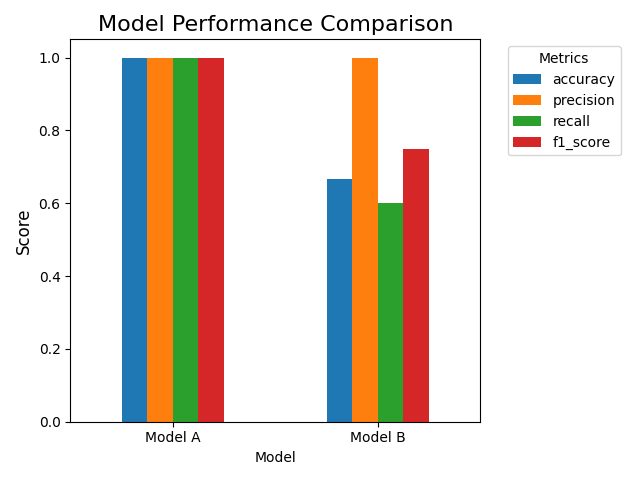
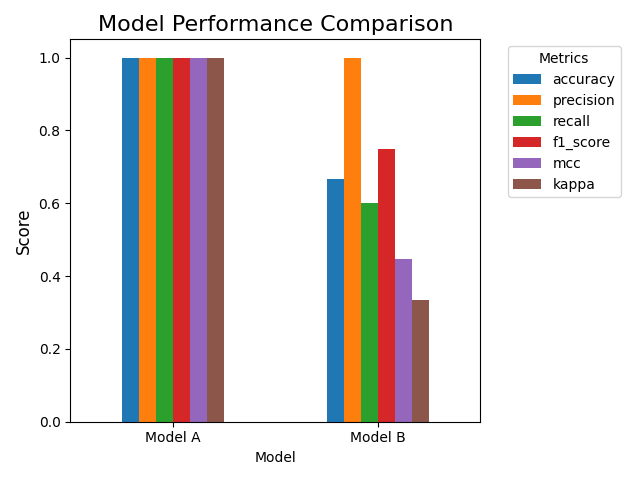
feat: add MCC and Cohen's Kappa metrics

Changed region(s): [[0.2188, 0.0938, 0.375, 0.9062], [0.5312, 0.0938, 0.6875, 0.9062], [0.7812, 0.3125, 0.9375, 0.4062]]

diff --git a/src/evaluation/main.py b/src/evaluation/main.py
@@ -2,6 +2,7 @@ import numpy as np
 import pandas as pd
 import matplotlib.pyplot as plt
 import seaborn as sns
+from sklearn.metrics import matthews_corrcoef, cohen_kappa_score
 
 class ModelComparator:
     def __init__(self, questions, ground_truth, model_a_responses, model_b_responses):
@@ -44,7 +45,9 @@ class ModelComparator:
             'recall': recall,
             'f1_score': f1,
             'total_correct': sum(p == gt for p, gt in zip(predictions, self.ground_truth)),
-            'total_questions': len(self.ground_truth)
+            'total_questions': len(self.ground_truth),
+            'mcc': matthews_corrcoef(self.ground_truth, predictions),  # Matthews Correlation Coefficient
+            'kappa': cohen_kappa_score(self.ground_truth, predictions)  # Cohen's Kappa
         }
     
     def generate_detailed_comparison(self):
@@ -79,7 +82,7 @@ class ModelComparator:
         
         # 1. Bar Plot of Performance Metrics
         plt.figure(figsize=(12, 6))
-        metrics_to_plot = ['accuracy', 'precision', 'recall', 'f1_score']
+        metrics_to_plot = ['accuracy', 'precision', 'recall', 'f1_score', 'mcc', 'kappa']  # Include MCC and Kappa
         
         comparison_df.plot(x='Model', y=metrics_to_plot, kind='bar', rot=0)
         plt.title('Model Performance Comparison', fontsize=16)

diff --git a/visualizations/reports/model_comparison_report.md b/visualizations/reports/model_comparison_report.md
@@ -1,10 +1,10 @@
 # Model Performance Comparison Report
 
 ## Performance Summary
-| Model   |   accuracy |   precision |   recall |   f1_score |   total_correct |   total_questions |
-|:--------|-----------:|------------:|---------:|-----------:|----------------:|------------------:|
-| Model A |   1        |           1 |      1   |       1    |               6 |                 6 |
-| Model B |   0.666667 |           1 |      0.6 |       0.75 |               4 |                 6 |
+| Model   |   accuracy |   precision |   recall |   f1_score |   total_correct |   total_questions |      mcc |    kappa |
+|:--------|-----------:|------------:|---------:|-----------:|----------------:|------------------:|---------:|---------:|
+| Model A |   1        |           1 |      1   |       1    |               6 |                 6 | 1        | 1        |
+| Model B |   0.666667 |           1 |      0.6 |       0.75 |               4 |                 6 | 0.447214 | 0.333333 |
 
 ## Question-Level Breakdown
 ### Question 1: Does it mention pricing?
